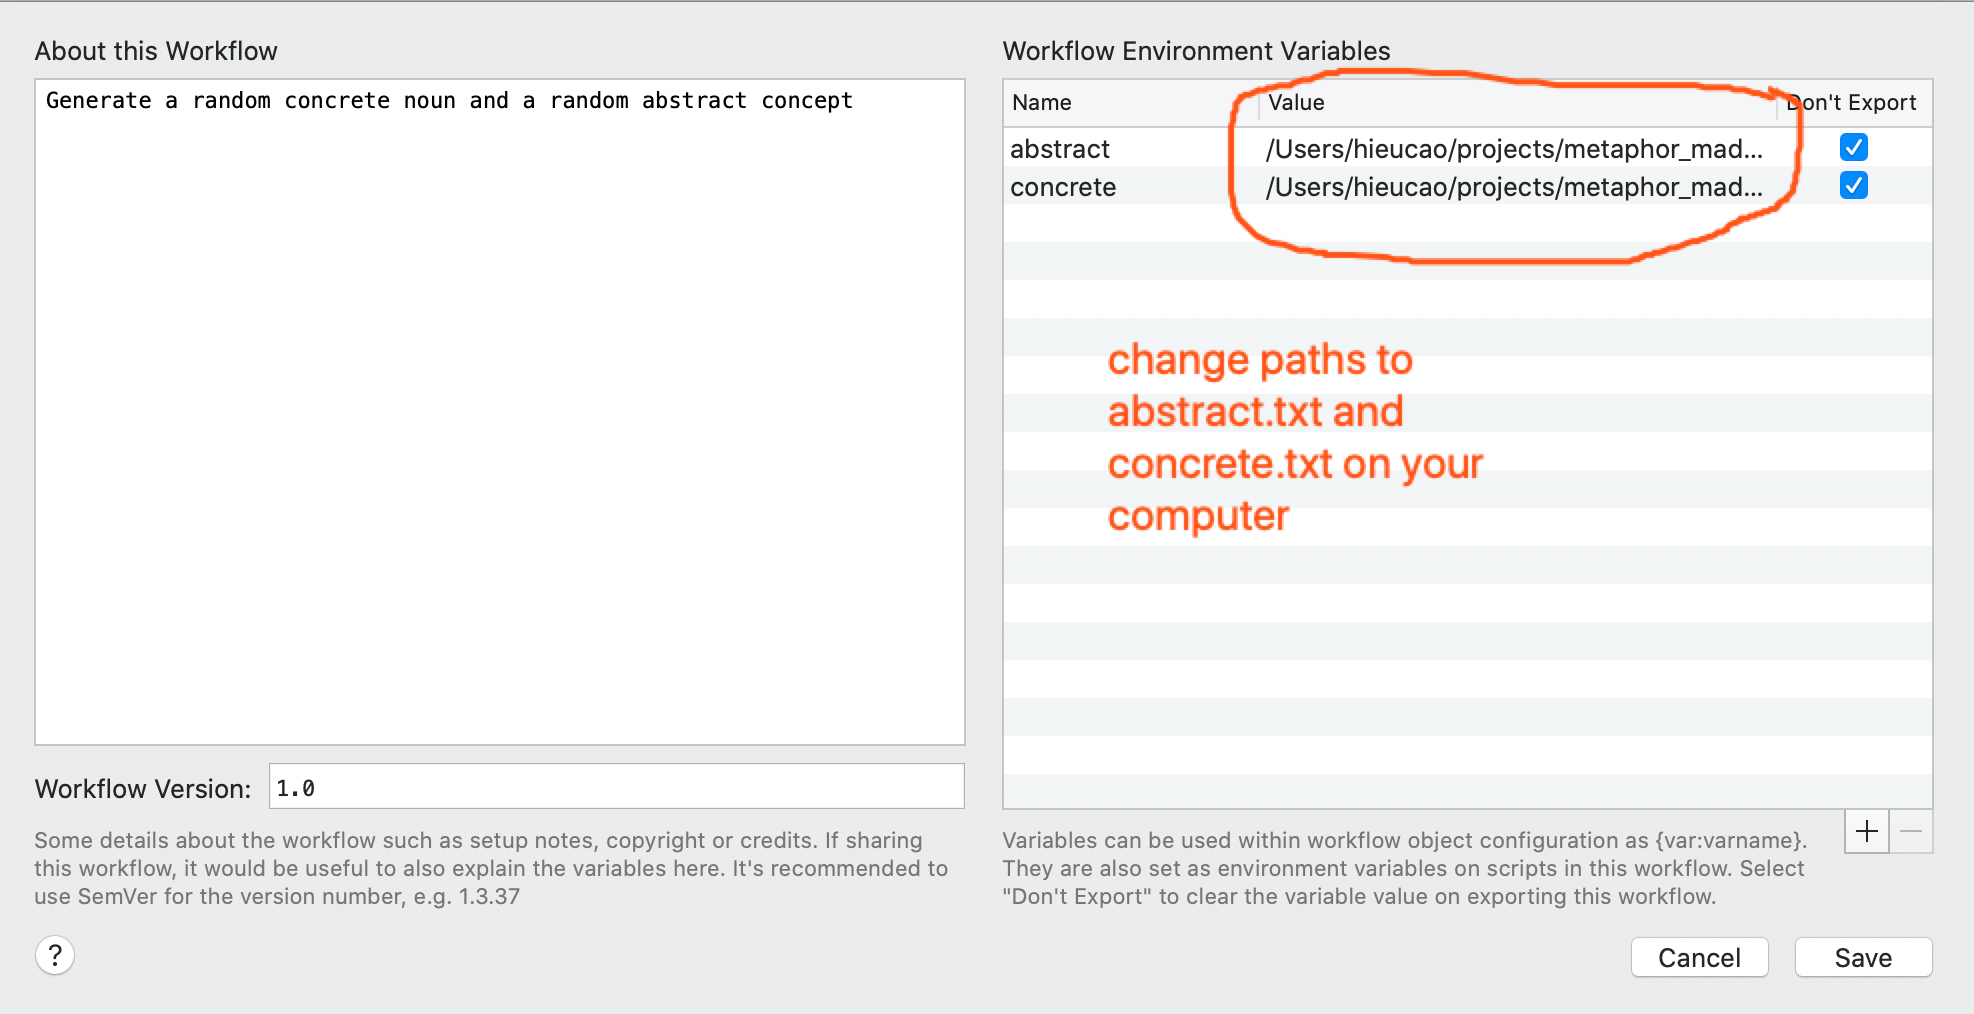
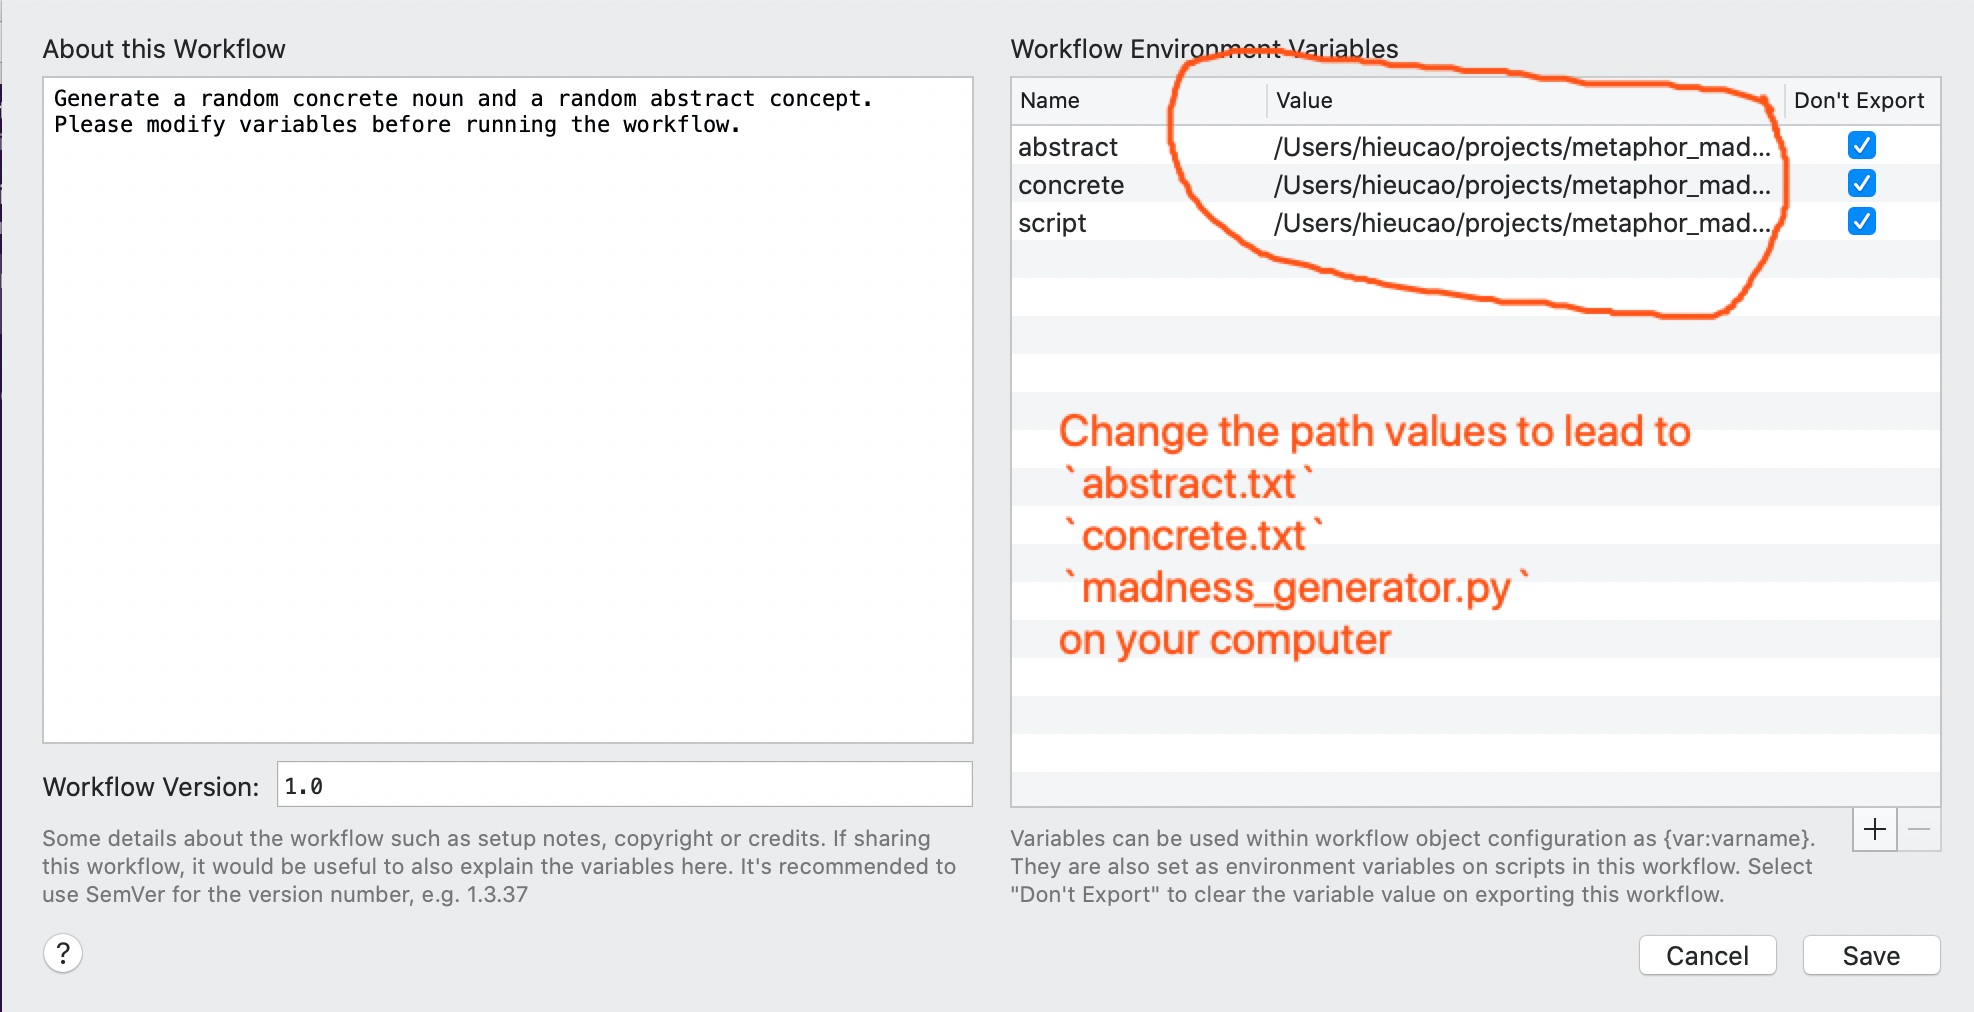
Fix Alfred Workflow

diff --git a/README.md b/README.md
@@ -8,6 +8,6 @@ On terminal, change working directory to the reposity and run:
 python3 madness_generator.py -h
 ```
 
-Similarly, for the Alfred Workflow, change the variables of the workflow to the paths leading to `abstract.txt` and `concrete.txt`
+Similarly, for the Alfred Workflow, change the variables of the workflow to the paths leading to `abstract.txt`,`concrete.txt`, and `madness_generator.py`.
 
 ![Alfred Workflow setup](alfred_variables.jpg)
